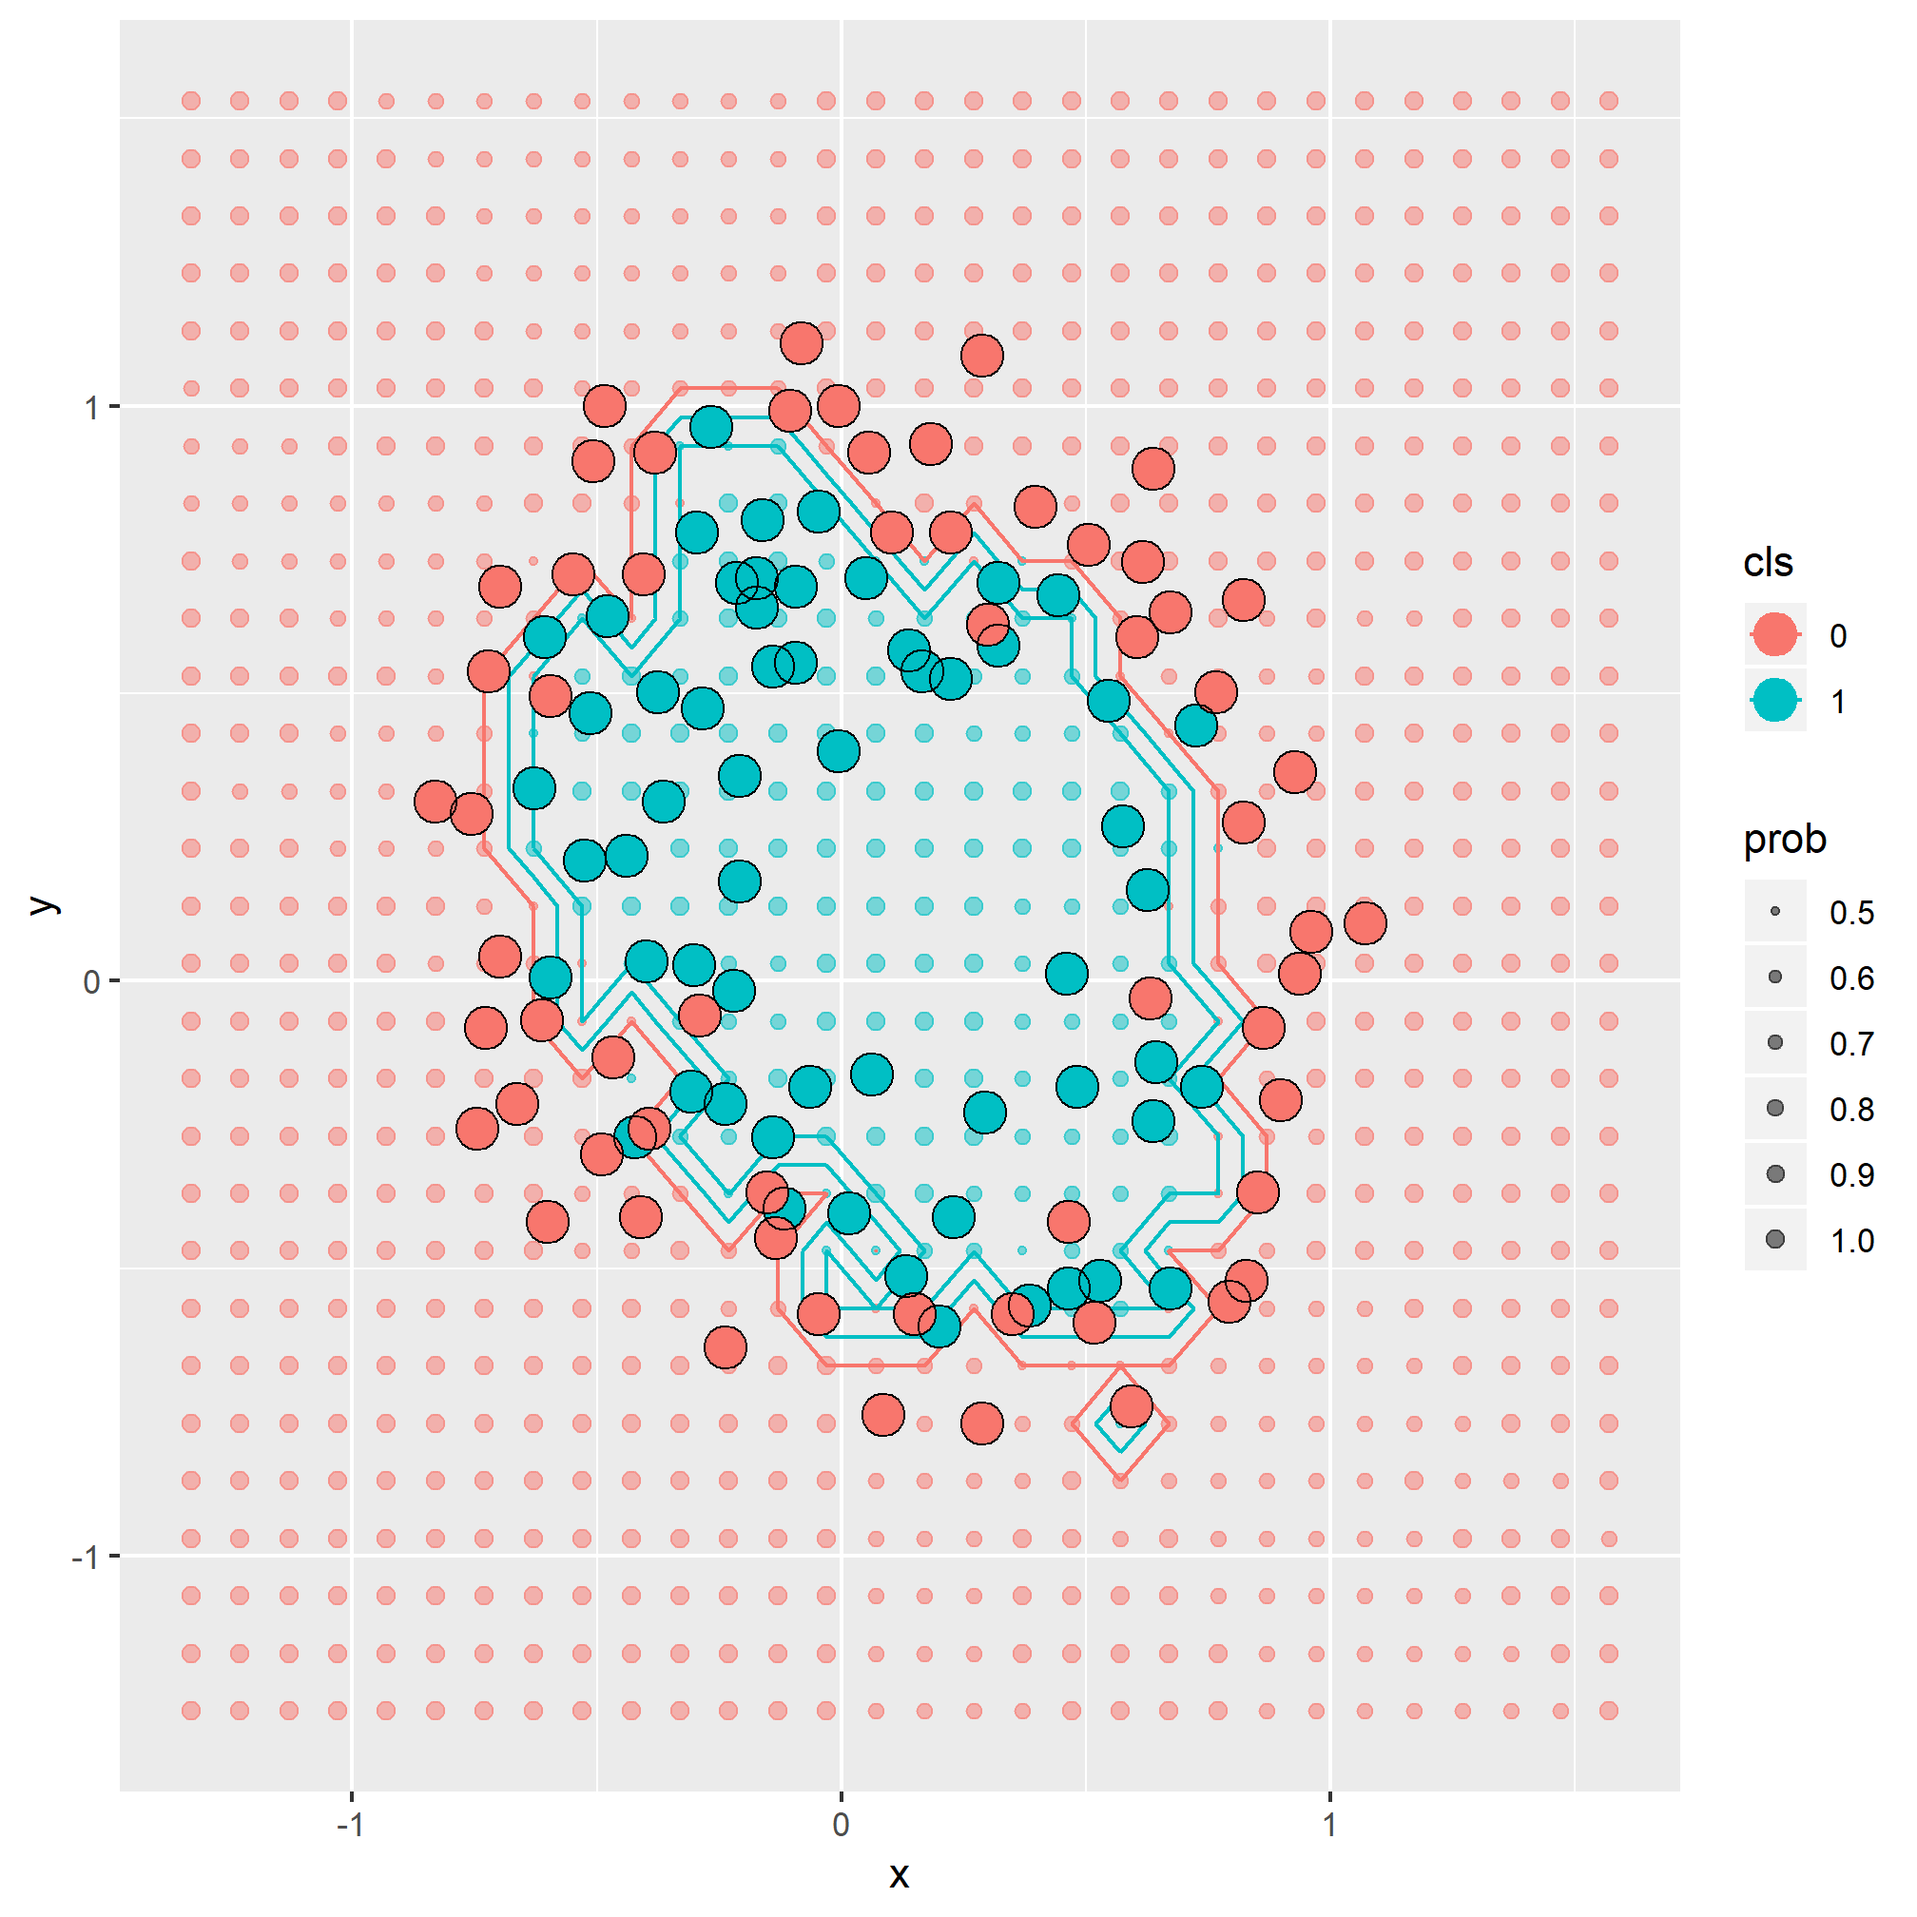
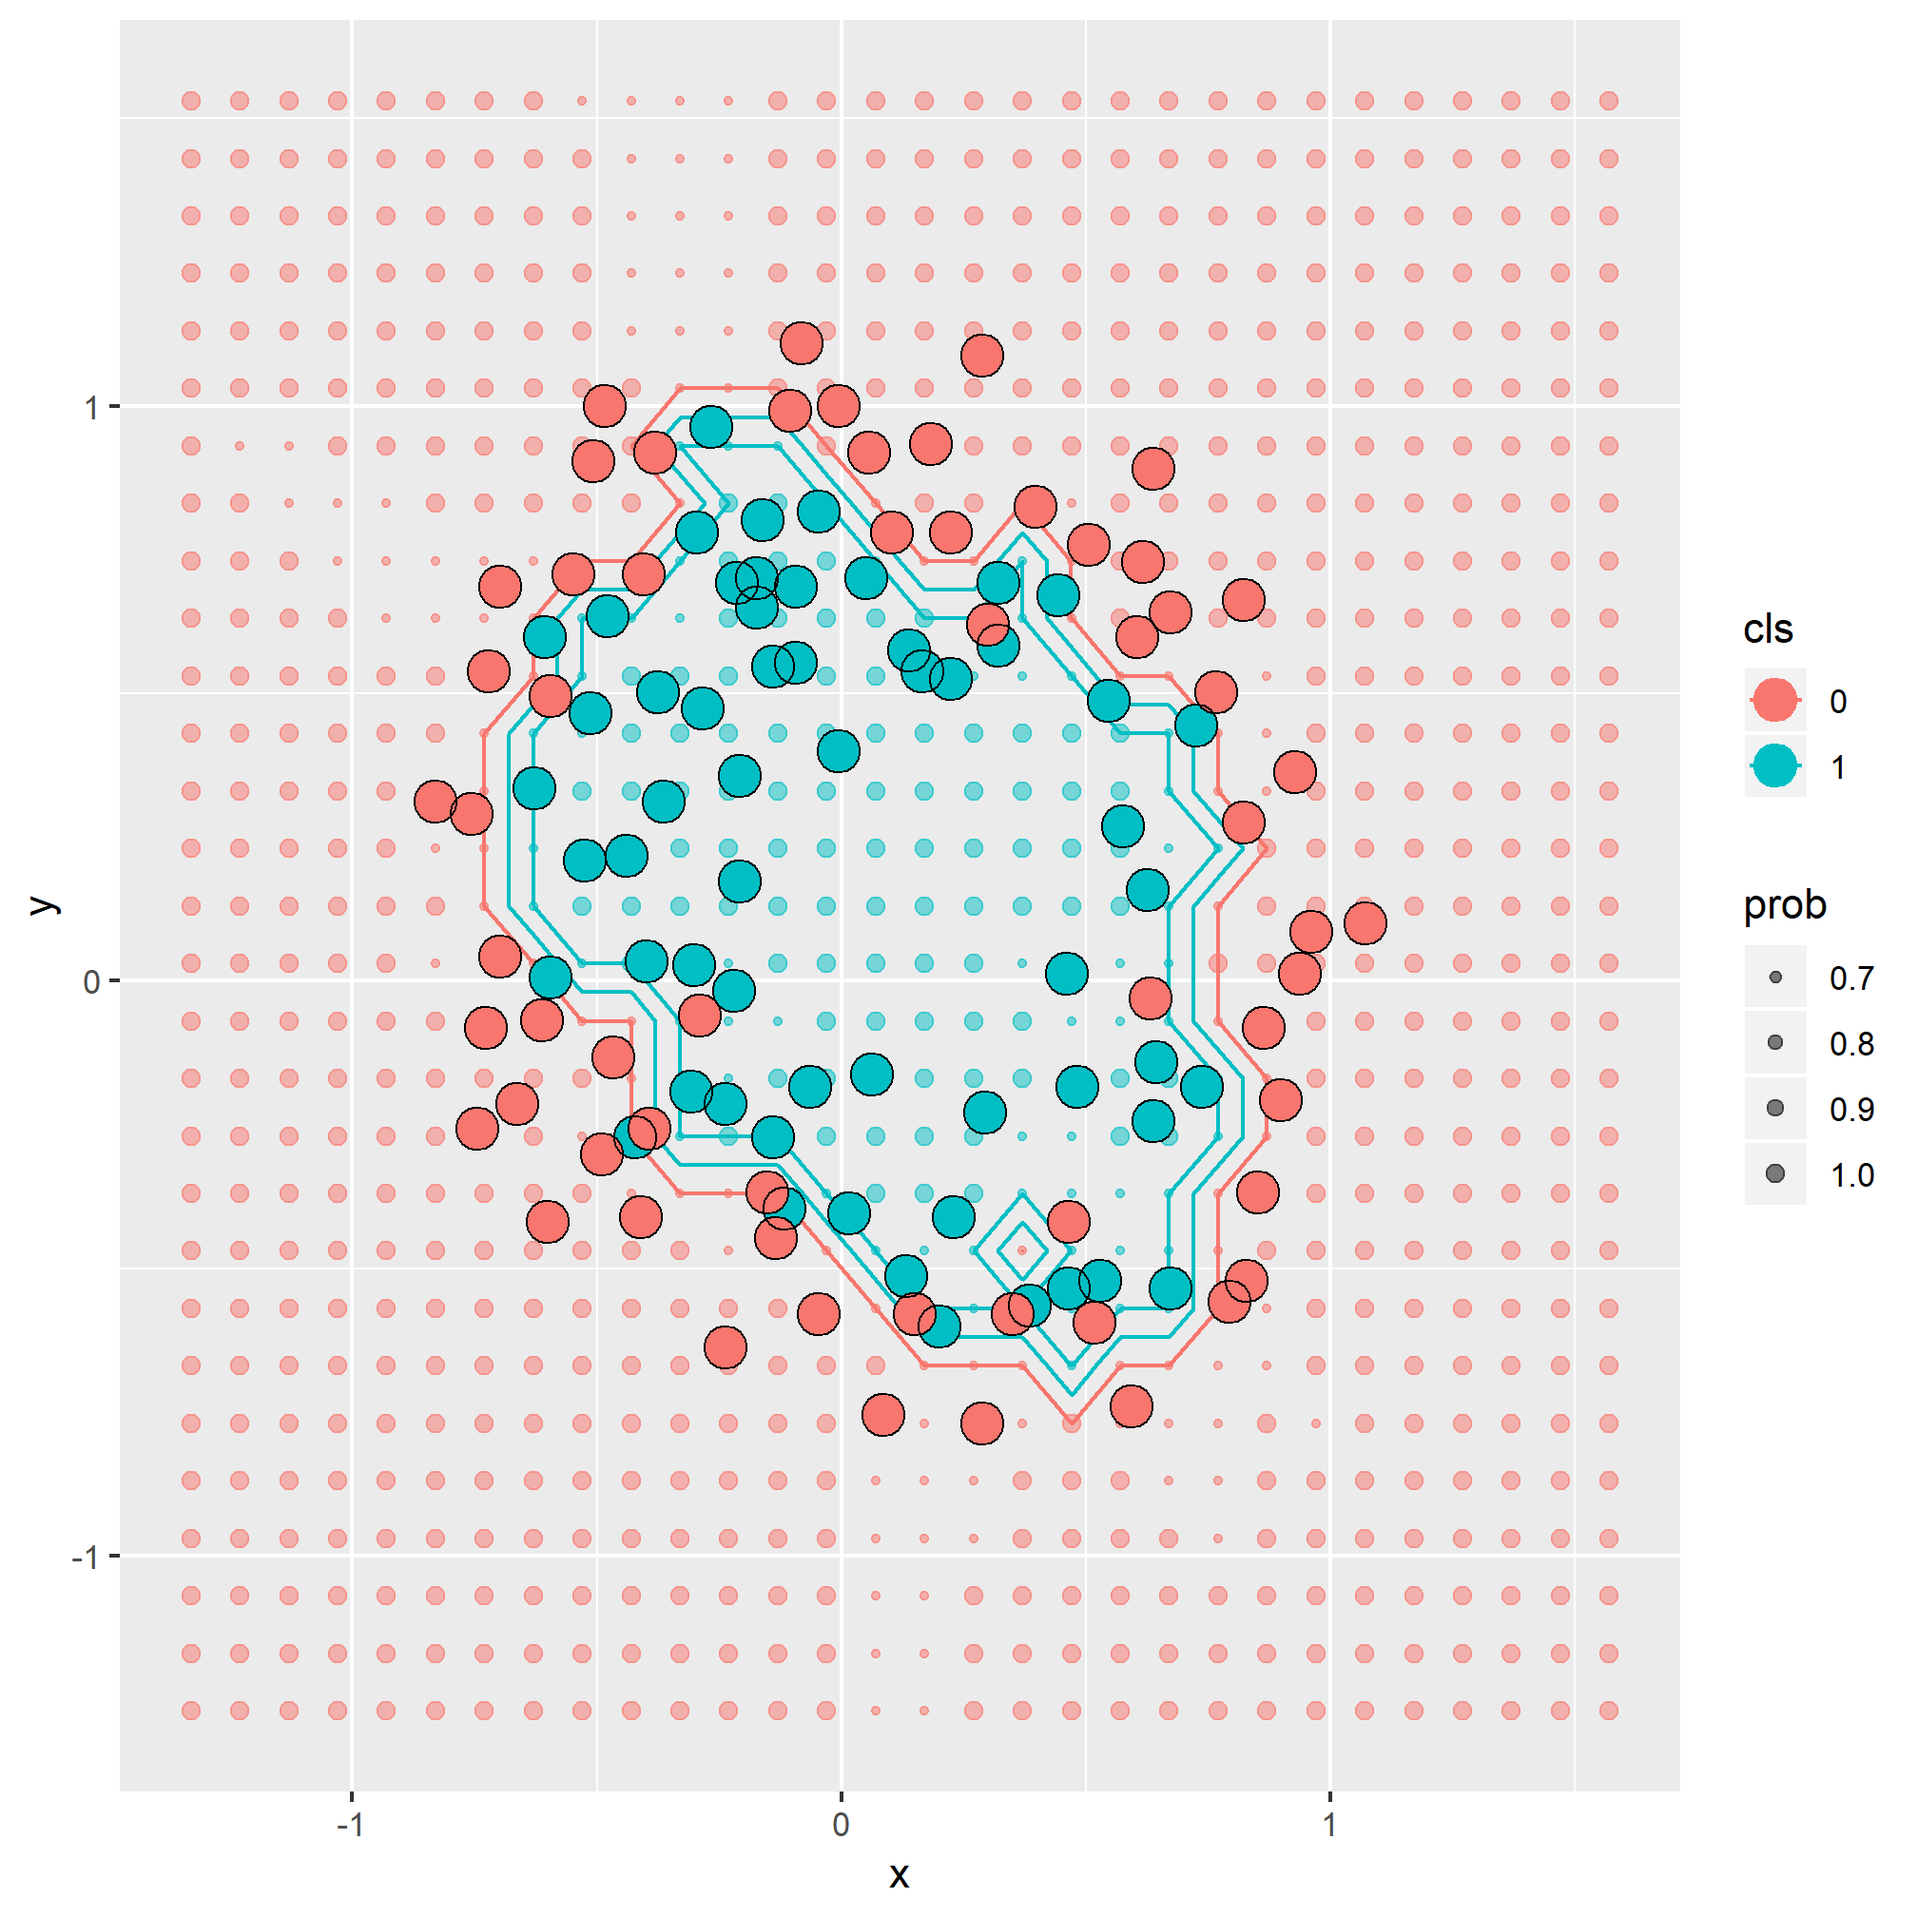
general fixes to slides

diff --git a/index.html b/index.html
@@ -18,7 +18,7 @@ class: center, middle, inverse, title-slide
 # Machine Learning 101
 ## Supervised Learning in R
 ### <br><br>Sarah Romanes   <span>&lt;i class="fab  fa-twitter faa-float animated "&gt;&lt;/i&gt;&amp;nbsp;@sarahromanes</span>
-### <br>2018/10/10<br><br><span>&lt;i class="fas  fa-link faa-vertical animated " style=" color:white;"&gt;&lt;/i&gt;&amp;nbsp;bit.ly/rladies-sydney-ML-1</span>
+### <br>10-Oct-2018<br><br><span>&lt;i class="fas  fa-link faa-vertical animated " style=" color:white;"&gt;&lt;/i&gt;&amp;nbsp;bit.ly/rladies-sydney-ML-1</span>
 
 ---
 
@@ -34,7 +34,7 @@ class: bg-main3 split-30 hide-slide-number
 ]
 .column.slide-in-right[.content.vmiddle[
 .sliderbox.shade_main.pad1[
-.font5[Welcome]
+.font5[Welcome!]
 ]
 ]]
 
@@ -48,7 +48,7 @@ class: split-two white
 
 &lt;br&gt;
 
-### This two part R-Ladies workshop is designed to give you a small taster into the large field that is known as .purple[**Machine Learning**]! Today, we will cover supervised learning techniques (explained later), and next week we will cover model performance assessment.
+### This two part R-Ladies workshop is designed to give you a small taster into the large field that is known as .orange[**Machine Learning**]! Today, we will cover supervised learning techniques (explained later), and next week we will cover model performance assessment.
 
 &lt;br&gt;
 
@@ -88,7 +88,7 @@ class: middle center bg-main1
 
 &lt;br&gt;
 
-### Mathematically, Machine Learning problems are simply *optimisation* problems, in which we will use <i class="fab  fa-r-project "></i> to help us solve!
+### Mathematically, Machine Learning problems are simply *optimisation* problems, in which we will use .purple[<i class="fab  fa-r-project "></i>] to help us solve!
 
 ---
 
@@ -104,7 +104,40 @@ class: middle center bg-main1
 
 ---
 
-# .purple[Supervised vs Unsupervised Learning]
+class: split-two white 
+
+.column.bg-main1[.content[
+
+&lt;br&gt;
+
+# Types of Learning
+
+&lt;br&gt;
+
+## .orange[Supervised Learning]
+
+### - We have knowledge of class labels or values.
+
+### - Goal: train a model using known class labels to predict class or value label for a new data point.
+
+&lt;br&gt;
+
+## .orange[Unsupervised Learning]
+
+### - No knowledge of output class or value –data is unlabelled.
+
+### - Goal: determine data patterns/groupings.
+
+
+]]
+
+.column[.content.vmiddle.center[
+
+&lt;img src="images/learning.png", width="80%"&gt;
+
+##### .purple[Credit to Towards Data Science]
+
+]]
 
 
 ---
@@ -130,8 +163,6 @@ class: split-two white
 
 # A simple prediction problem
 
-&lt;br&gt;
-
 ### Consider the simulated dataset `Income`, which looks at the relationship between `Education` (years) and `Income` (thousands).
 
 
@@ -150,7 +181,7 @@ head(data)
 ## 6  12.08696 26.39895
 ```
 
-### What shape is the relationship? Can we build a function to predict the value of a new data point?
+#### What shape is the relationship? Can we build a function to predict the value of a new data point?
 
 ]]
 
@@ -173,8 +204,26 @@ class: middle center bg-main1
 
 ---
 
-# Shiny app
+class: pink-code
 
+# .purple[What line is optimal?]
+
+&lt;br&gt;
+
+### We can use a .purple[**linear function**] to describe our data and .purple[**predict**] a new data point. The question is, what is the .purple[*optimal line*]?
+
+&lt;br&gt;
+
+### One way to do this is find the slope and intercept that .purple[*minimise*] the sum of the squared residuals between the line and our data points:
+
+&lt;center&gt;
+&lt;img src="images/rss.png", width="25%"&gt;
+&lt;/center&gt;
+
+### We can visualise this optimisation process using a .purple[**Shiny App**] [here](http://43.240.99.178:3838/sample-apps/LinearRegression/).
+
+
+### .purple[<i class="fab  fa-r-project "></i>] performs this optimisation process for us when we call the `lm` function.
 ---
 
 class: split-60 white
@@ -259,7 +308,7 @@ F-statistic: 377.6 on 1 and 28 DF,  p-value: &lt; 2.2e-16
 ]]
 .column.bg-main3[.content.vmiddle.center[
 
-## We can use `summary` function to examine regression coefficients, and information about the residuals of our model.
+## We can use the `summary` function to examine regression coefficients, and information about the residuals of our model.
 ]]
 
 ---
@@ -304,7 +353,7 @@ F-statistic: 377.6 on 1 and 28 DF,  p-value: &lt; 2.2e-16
 ]]
 .column.bg-main3[.content.vmiddle.center[
 
-## We can use `summary` function to examine regression coefficients, and information about the residuals of our model.
+## We can use the `summary` function to examine regression coefficients, and information about the residuals of our model.
 ]]
 
 ---
@@ -446,7 +495,8 @@ fit &lt;-  glm(data=data,
 ```
 ]]
 .column.bg-main3[.content.vmiddle.center[
-## This tells the `glm` function what variables we would like to regress. Just like the `lm` function, R expects the relationship in the form of `response~predictors`. 
+## This tells the `glm` function what variables we would like to regress. 
+### Just like the `lm` function, R expects the relationship in the form of `response~predictors`. 
 ]]
 
 ---
@@ -776,7 +826,7 @@ Signif. codes:  0 ‘***’ 0.001 ‘**’ 0.01 ‘*’ 0.05 ‘.’ 0.1 ‘ ’
 ```
 ]]
 .column.bg-main3[.content.vmiddle.center[
-### The formula `Label ~ . ` tells the `glm` funcion to regress against all (two) predictors, `Exam1` and `Exam2`.
+### The formula `Label ~ . ` tells the `glm` function to regress against all (two) predictors, `Exam1` and `Exam2`.
 ]]
 
 ---
@@ -791,13 +841,13 @@ class: split-two white
 
 &lt;br&gt;
 
-We can plot the **decision boundary** on our scatterplot for `Exam1` vs `Exam2` by looking at the set of points for which our classifier predicts `$$p(y=1|\beta_0 + \beta_1 \text{Exam1} + \beta_2 \text{Exam2}) \geq 0.5$$`
+### We can plot the **decision boundary** on our scatterplot for `Exam1` vs `Exam2` by looking at the set of points for which our classifier predicts `$$p(y=1|\beta_0 + \beta_1 \text{Exam1} + \beta_2 \text{Exam2}) \geq 0.5$$`
 
 
-Given the `logit` link, this is true when 
+### Given the `logit` link, this is true when 
 `$$\beta_0 + \beta_1 \text{Exam1} + \beta_2 \text{Exam2} \geq 0$$`
 
-This is the **decision boundary** and can be rearranged as 
+### This is the **decision boundary** and can be rearranged as 
 $$ \text{Exam2} \geq \frac{-\beta_0}{\beta_2} + \frac{-\beta_1}{\beta_2} \text{Exam 1} $$
 
 ]]
@@ -877,24 +927,37 @@ head(data)
 
 ---
 
-# Different data types require different machine learning methods
+# .purple[Different data types require different machine learning methods]
 
-While we can indeed use Logistic regression to **classify** data points, this simply isn't feasible when
+&lt;br&gt;
 
-We have high class seperation in our data
-We have a non-linear combination of predictors influcing our response
+## While we can indeed use Logistic regression to .purple[**classify**] data points, this simply isn't feasible when:
 
+### - We have high class seperation in our data
+### - We have a non-linear combination of predictors influcing our response (as in this case)
 
-So, what other options do we have?
+&lt;br&gt;
+
+## .purple[**So, what other options do we have?**]
 
 ---
 class: split-two white 
 
 .column.bg-main1[.content[
 
+&lt;br&gt;
+
 # The K-Nearest Neighbours Algorithm
 
-Credit to Natasha Latysheva for image
+&lt;br&gt;
+
+## .orange[**K Nearest Neighbours (KNN)**] is a non-parametric algorithm (doesn't assume the data follows any particular shape).
+
+&lt;br&gt;
+
+## In KNN, we vote on the class of a new data point by looking at the majority class of the .orange[**K**] nearest neighbours.
+
+
 
 ]]
 
@@ -902,6 +965,7 @@ Credit to Natasha Latysheva for image
 
 &lt;img src="images/knn2-Natasha-Latysheva.jpg", width="80%"&gt;
 
+##### .purple[Credit to Natasha Latysheva]
 
 ]]
 
@@ -926,14 +990,14 @@ cl &lt;- as.factor(data[,3])
 ]]
 
 .column.bg-main3[.content.vmiddle.center[
-## First, we split our data into **predictors** (`X`), and response (`cl` - for *class*),
+## First, we split our data into **predictors** (`X`), and response (`cl` for *class*),
 
 ]]
 
 
 ---
 
-class: split-two white pink-code
+class: split-two white
 
 .column.bg-main1[.content[
 
@@ -942,6 +1006,8 @@ class: split-two white pink-code
 # KNN in <i class="fab  fa-r-project "></i>
 
 &lt;br&gt;
+
+Next, we need to give the function new data points, as the `knn` function fits and predicts at the same time. We will use the `MASS` package to generate a grid of new points to predict the class of.
 
 
 ```r
@@ -954,11 +1020,12 @@ library(MASS)
 *                    y=seq(min(X[,2]-0.5), max(X[,2]+0.5),
 *                          by=0.1))
 ```
+
+
 ]]
 
 .column[.content.vmiddle.center[
 
-.black[Next, we need to give the function new data points, as the `knn` function fits and predicts at the same time. We will use the `MASS` package to generate a grid of new points to predict the class of.]
 
 &lt;img src="index_files/figure-html/unnamed-chunk-37-1.png" width="504" /&gt;
 
@@ -989,13 +1056,13 @@ new.X &lt;- expand.grid(x=seq(min(X[,1]-0.5), max(X[,1]+0.5),
                            by=0.1))
  
 library(class)
-*classif &lt;- knn(X, new.X, cl, k = 4, prob=TRUE)
+*classif &lt;- knn(X, new.X, cl, k = 3, prob=TRUE)
 ```
 ]]
 
 .column.bg-main3[.content.vmiddle.center[
 
-## Now we call the `knn` function, putting in our datapoints, our new data, and the classes of the original data points, as well as how many neighbours we want to consider. In this example, we consider `k=4`.
+## Now we call the `knn` function, putting in our datapoints, our new data, and the classes of the original data points, as well as how many neighbours we want to consider. In this example, we consider `k=3`.
 ]]
 
 
@@ -1023,7 +1090,7 @@ new.X &lt;- expand.grid(x=seq(min(X[,1]-0.5), max(X[,1]+0.5),
                            by=0.1))
  
 library(class)
-classif &lt;- knn(X, new.X, cl, k = 4, prob=TRUE)
+classif &lt;- knn(X, new.X, cl, k = 3, prob=TRUE)
 ```
 
 
@@ -1069,7 +1136,7 @@ new.X &lt;- expand.grid(x=seq(min(X[,1]-0.5), max(X[,1]+0.5),
                            by=0.1))
  
 library(class)
-*classif &lt;- knn(X, new.X, cl, k = 10, prob=TRUE)
+*classif &lt;- knn(X, new.X, cl, k = 9, prob=TRUE)
 ```
 
 
@@ -1077,7 +1144,7 @@ library(class)
 
 &lt;center&gt;
 
-We can also see how our decisions change based on the number of neighbours we consider! Here, we consider `k=10`.
+We can also see how our decisions change based on the number of neighbours we consider! Here, we consider `k=9`.
 
 &lt;/center&gt;
 
@@ -1125,7 +1192,7 @@ class: split-two white
 
 &lt;br&gt;
 
-###  When making Decision Trees, there are several factors we take into consideration. These include - on what features do we make our decisions on? What is the threshold for classifying each question into a .yellow[**yes**] or .yellow[**no**] answer?
+###  When making Decision Trees, there are several factors we take into consideration. These include - on what features do we make our decisions on? What is the threshold for classifying each question into a .orange[**yes**] or .orange[**no**] answer?
 
 &lt;br&gt;
 
@@ -1315,12 +1382,12 @@ iris.rf
 ##                      Number of trees: 500
 ## No. of variables tried at each split: 2
 ## 
-##         OOB estimate of  error rate: 4%
+##         OOB estimate of  error rate: 4.67%
 ## Confusion matrix:
 ##            setosa versicolor virginica class.error
 ## setosa         50          0         0        0.00
 ## versicolor      0         47         3        0.06
-## virginica       0          3        47        0.06
+## virginica       0          4        46        0.08
 ```
 ]]
 
@@ -1411,7 +1478,10 @@ rpart.plot(tree.SRBCT)
 ]]
 
 .column.bg-main3[.content.vmiddle.center[
-## Using the r part function
+
+## Using the `rpart` function along with `rpart.plot`, we can see the tree used to classify the `SRBCT` data. Note how simple it is!
+
+###  PS - note here the alternative formulation of the input to the `rpart` function. If we input `X` and `y` directly, we don't need to reference the data set.
 ]]
 
 ---
@@ -1445,7 +1515,10 @@ SRBCT.rf
 ]]
 
 .column.bg-main3[.content.vmiddle.center[
-## Using the `randomForest`  function
+## Using the `randomForest`  function we can also classify on the same data. 
+
+###  PS, here I use yet another formulation of input into the `randomForest` function. Note here how `X` comes before `y`!
+
 ]]
 
 
